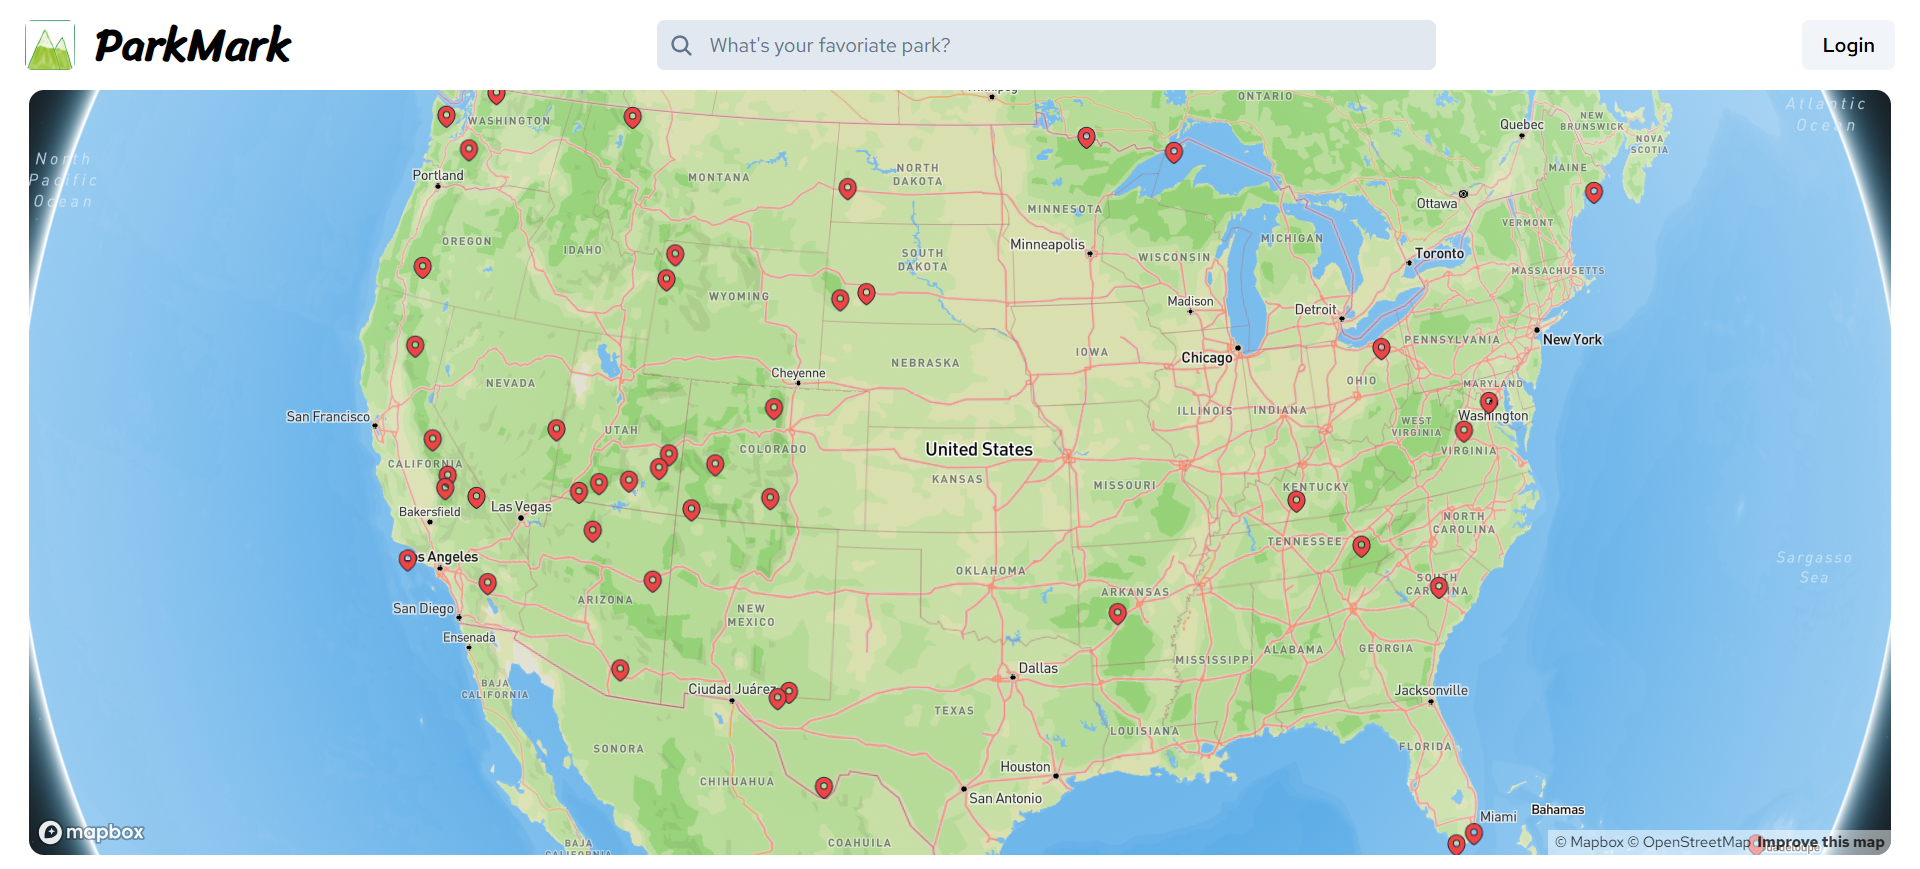
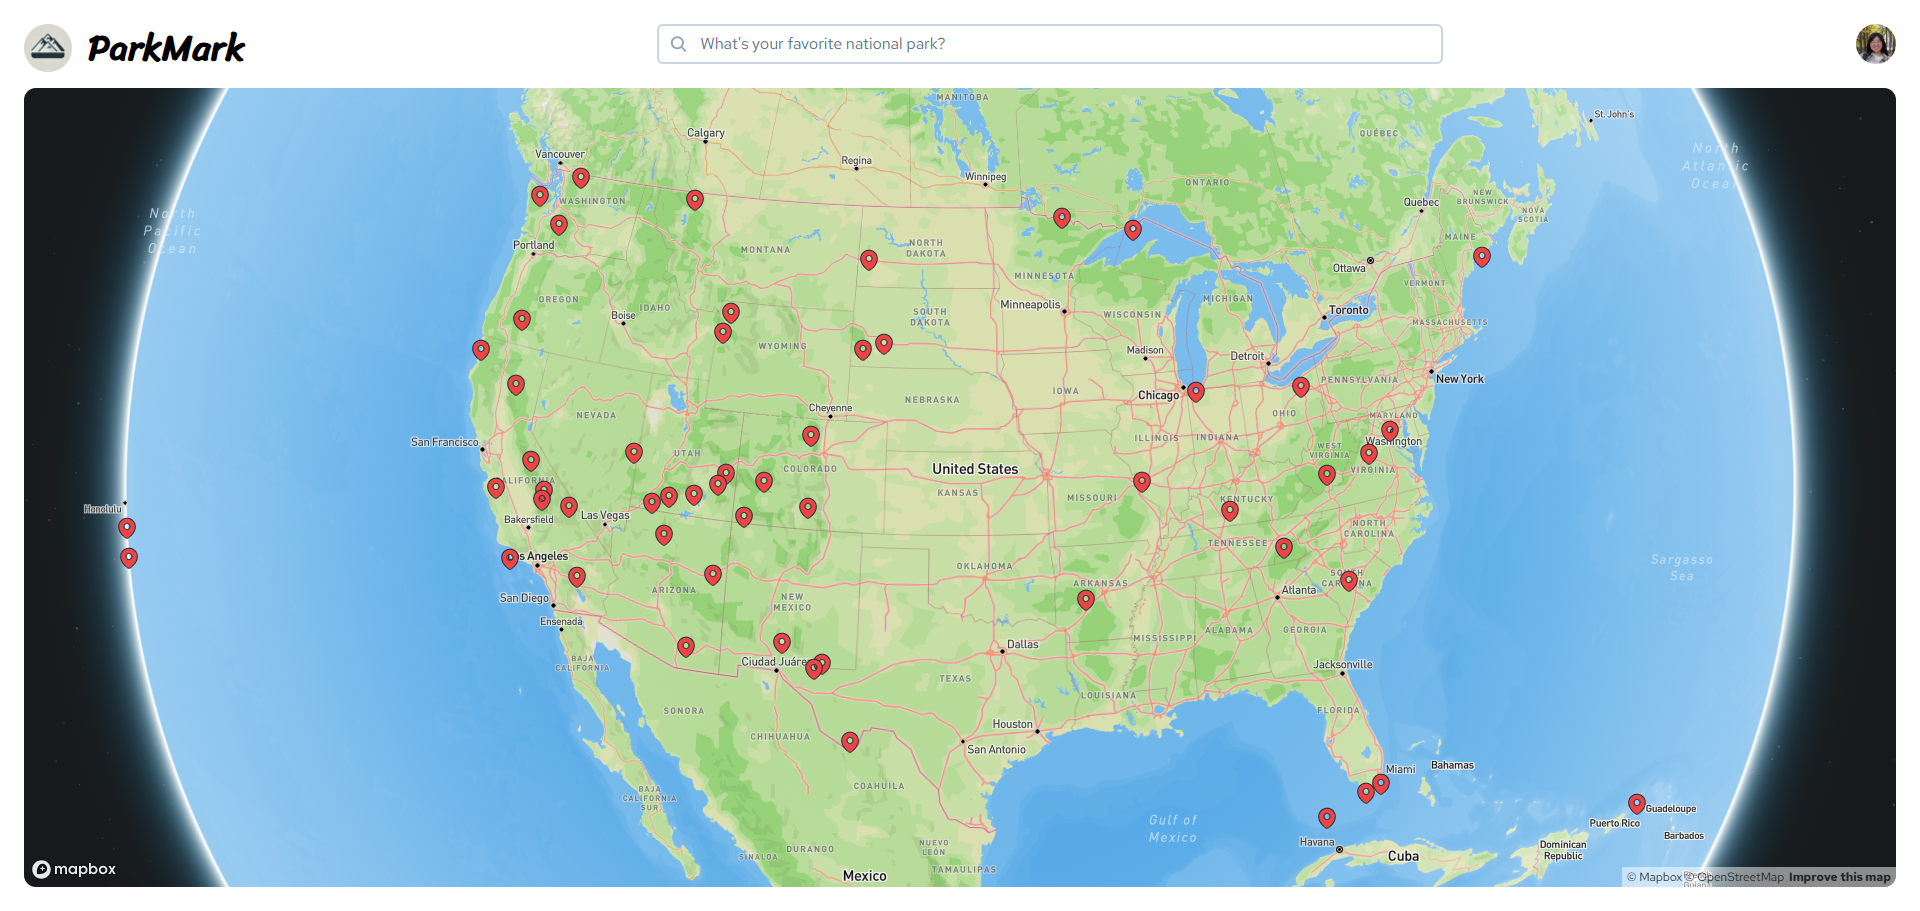
fixed search bar and added states to park list

diff --git a/client/src/components/NavBar/SearchBar.tsx b/client/src/components/NavBar/SearchBar.tsx
@@ -14,11 +14,8 @@ const SearchBar = () => {
     );
     const setSelectedParkAtom = useSetAtom(selectedParkAtom);
 
-    const baseClassName =
-        "relative flex flex-row items-center pl-2.5 w-[42%] max-h-10 gap-3 bg-white border-slate-300 border-2 ";
-    const [searchBarClassName, setSearchBarClassName] = useState<string>(
-        baseClassName + "rounded-md"
-    );
+    const [searchBarExtraClasses, setSearchBarExtraClasses] =
+        useState<string>("rounded-md");
 
     const handleSearchInputOnChange = () => {
         if (!searchRef.current) {
@@ -26,7 +23,7 @@ const SearchBar = () => {
         }
         if (searchRef.current.value.length === 0) {
             setSearchIsActive(false);
-            setSearchBarClassName(baseClassName + "rounded-md");
+            setSearchBarExtraClasses("rounded-md");
             return;
         }
 
@@ -37,15 +34,21 @@ const SearchBar = () => {
 
         setSuggestedParkList(suggestedParkList);
 
-        setSearchIsActive(true);
-
-        setSearchBarClassName(baseClassName + "rounded-t-md border-b-0");
+        
+        if (suggestedParkList.length > 0) {
+            setSearchBarExtraClasses("rounded-t-md border-b-0");
+            setSearchIsActive(true);
+        }
+        else {
+            setSearchBarExtraClasses("rounded-md");
+            setSearchIsActive(false);
+        }
     };
 
     const handleParkButtonClick = (park: NationalPark) => {
         setSelectedParkAtom(park);
         setSearchIsActive(false);
-        setSearchBarClassName(baseClassName + "rounded-md");
+        setSearchBarExtraClasses("rounded-md");
 
         if (!searchRef.current) {
             return;
@@ -55,7 +58,9 @@ const SearchBar = () => {
     };
 
     return (
-        <div className={searchBarClassName}>
+        <div
+            className={`relative flex flex-row items-center pl-2.5 w-[42%] max-h-10 gap-3 bg-white border-slate-300 border-2 ${searchBarExtraClasses}`}
+        >
             <IoSearch className="size-5 text-slate-400" />
             <input
                 ref={searchRef}
@@ -65,8 +70,8 @@ const SearchBar = () => {
             ></input>
             {searchIsActive && (
                 <div
-                    className="absolute left-0 top-9 flex flex-col w-full max-h-52 overflow-y-auto text-[17px]
-                            shadow-lg bg-white border-slate-300 border-2 border-t-0 rounded-b-md z-[1000]"
+                    className="absolute left-[-2px] top-9 flex flex-col w-[calc(100%+4px)] max-h-52 overflow-y-auto text-[17px]
+                            shadow-lg bg-white border-slate-300 border-2 border-t-0 rounded-b-md z-[1001]"
                 >
                     {suggestedParkList.map((park) => {
                         return (
@@ -74,10 +79,13 @@ const SearchBar = () => {
                                 onClick={() => {
                                     handleParkButtonClick(park);
                                 }}
-                                className="flex flex-row gap-3 py-2 pl-2.5 text-start text-slate-600 w-full rounded-md hover:bg-slate-100"
+                                className="flex flex-row gap-3 py-2 pl-2.5 text-start text-slate-600 w-full hover:bg-slate-100"
                             >
                                 <IoSearch className="size-5 text-slate-400" />
-                                {park.name}
+                                {park.name}{" "}
+                                <span className="text-slate-400 pl-2">
+                                    {park.park_info.states}
+                                </span>
                             </button>
                         );
                     })}

diff --git a/client/src/lib/APIs/thumbsUpListApi.ts b/client/src/lib/APIs/thumbsUpListApi.ts
@@ -6,26 +6,26 @@ export const postThumbsUpData = async (thumbsUpData: ThumbsUpData) => {
         const response = await fetch("http://localhost:5000/api/thumbsuplist", {
             method: "POST",
             headers: { "Content-Type": "application/json" },
-            body: JSON.stringify(thumbsUpData)
+            body: JSON.stringify(thumbsUpData),
         });
 
         if (!response.ok) {
             throw new Error(`[Backend] Network error: ${response.status}`);
         }
-    }
-    catch (error) {
+    } catch (error) {
         handleApiError(error);
     }
-}
-
-// export const deleteThumbsUpData = async (thumbsUpDataId)
+};
 
 export const fetchThumbsUpListByReviewId = async (reviewId: string) => {
     try {
-        const response = await fetch(`http://localhost:5000/api/thumbsuplist/review_id/${reviewId}`, {
-            method: "GET",
-            headers: { "Content-Type": "application/json" },
-        });
+        const response = await fetch(
+            `http://localhost:5000/api/thumbsuplist/review_id/${reviewId}`,
+            {
+                method: "GET",
+                headers: { "Content-Type": "application/json" },
+            }
+        );
 
         if (!response.ok) {
             throw new Error(`[Backend] Network error: ${response.status}`);
@@ -34,8 +34,28 @@ export const fetchThumbsUpListByReviewId = async (reviewId: string) => {
         const thumbsUpList: ThumbsUpData[] = await response.json();
 
         return thumbsUpList;
-    }
-    catch (error) {
+    } catch (error) {
         handleApiError(error);
     }
-}
+};
+
+export const deleteThumbsUpData = async (
+    userSubId: string,
+    reviewId: string
+) => {
+    try {
+        const response = await fetch(
+            `http://localhost:5000/api/thumbsuplist?user_sub_id=${userSubId}&review_id=${reviewId}`,
+            {
+                method: "DELETE",
+                headers: { "Content-Type": "application/json" },
+            }
+        );
+
+        if (!response.ok) {
+            throw new Error(`[Backend] Network error: ${response.status}`);
+        }
+    } catch (error) {
+        handleApiError(error);
+    }
+};

diff --git a/client/src/components/Ratings/Display/ThumbsUpButton.tsx b/client/src/components/Ratings/Display/ThumbsUpButton.tsx
@@ -1,4 +1,5 @@
 import {
+    deleteThumbsUpData,
     fetchThumbsUpListByReviewId,
     postThumbsUpData,
 } from "@lib/APIs/thumbsUpListApi";
@@ -21,7 +22,7 @@ const ThumbsUpButton = ({ reviewId }: ThumbsUpButtonProps) => {
 
     const logInUser: UserData | null = useAtomValue(logInUserAtom);
 
-    const handleThumbsUpButtonClick = () => {
+    const handleThumbsUpButtonClick = async () => {
         if (!logInUser) {
             alert("Please sign in to like a review.");
             return;
@@ -37,10 +38,12 @@ const ThumbsUpButton = ({ reviewId }: ThumbsUpButtonProps) => {
         if (newThumbsUpBool) {
             className += " fill-blue-400";
 
-            postThumbsUpData(thumbsUpData);
+            await postThumbsUpData(thumbsUpData);
         } else {
-            // delete here, but I need to delete by user id and review id..
+            await deleteThumbsUpData(logInUser.sub_id, reviewId);
         }
+
+        await calculateNumberOfThumbsUp();
         setThumbsUpBool(newThumbsUpBool);
         setThumbsUpIconClassName(className);
     };
@@ -75,11 +78,7 @@ const ThumbsUpButton = ({ reviewId }: ThumbsUpButtonProps) => {
     return (
         <button onClick={handleThumbsUpButtonClick} className={buttonClassName}>
             <LuThumbsUp className={thumbsUpIconClassName} />
-            {thumbsUpCount === 0 ? (
-                <></>
-            ) : (
-                <>{thumbsUpBool ? thumbsUpCount + 1 : thumbsUpCount}</>
-            )}
+            {thumbsUpCount === 0 ? <></> : <>{thumbsUpCount}</>}
         </button>
     );
 };

diff --git a/server/src/routers/thumbsUpListRouter.ts b/server/src/routers/thumbsUpListRouter.ts
@@ -67,7 +67,22 @@ thumbsUpListRouter.get(
     }
 );
 
-thumbsUpListRouter.delete("/id/:id", async(req: Request, res:Response) => {
+thumbsUpListRouter.delete("/", async (req: Request, res: Response) => {
+    try {
+        const { user_sub_id, review_id } = req.query;
+
+        const deleteQueryResult = await pool.query(
+            "DELETE FROM ThumbsUpList WHERE user_sub_id=$1 AND review_id=$2",
+            [user_sub_id, review_id]
+        );
+
+        res.json(deleteQueryResult);
+    } catch (error) {
+        handleError(error, res);
+    }
+});
+
+thumbsUpListRouter.delete("/id/:id", async (req: Request, res: Response) => {
     try {
         const { id } = req.params;
 
@@ -77,8 +92,7 @@ thumbsUpListRouter.delete("/id/:id", async(req: Request, res:Response) => {
         );
 
         res.json(deleteQueryResult);
-    }
-    catch (error) {
+    } catch (error) {
         handleError(error, res);
     }
 });

diff --git a/client/src/components/Ratings/Display/RatingCard.tsx b/client/src/components/Ratings/Display/RatingCard.tsx
@@ -1,5 +1,4 @@
 import { ReviewWithUserData } from "@lib/interfaces";
-import profileImg from "@assets/parkmark-logo.jpg";
 import DisplayReviewStars from "./DisplayReviewStars";
 import ThumbsUpButton from "./ThumbsUpButton";
 import { formatDate } from "@lib/dates";
@@ -20,10 +19,10 @@ const RatingCard: React.FC<RatingCardProps> = ({ review }) => {
                     <div className="font-medium">{review.user_name}</div>
                 </div>
                 <div className="self-center">
-                    <img
+                    {/* <img
                         src={profileImg}
                         className="size-32 object-cover rounded-lg"
-                    />
+                    /> */}
                 </div>
             </div>
             <div className="flex flex-col w-full">

diff --git a/client/src/lib/searchBar.ts b/client/src/lib/searchBar.ts
@@ -5,9 +5,19 @@ export const generateSuggestedPark = (
     parkList: NationalPark[]
 ) => {
     let suggestedParkList: NationalPark[] = [];
+    const prefixMatches = new Set();
 
     parkList.forEach((park) => {
-        if (park.name.toLowerCase().includes(input)) {
+        if (park.name.toLowerCase().startsWith(input)) {
+            suggestedParkList.push(park);
+            prefixMatches.add(park);
+        }
+    });
+    parkList.forEach((park) => {
+        if (
+            park.name.toLowerCase().includes(input) &&
+            !prefixMatches.has(park)
+        ) {
             suggestedParkList.push(park);
         }
     });

diff --git a/client/src/lib/Interfaces.ts b/client/src/lib/Interfaces.ts
@@ -20,6 +20,7 @@ export interface NationalPark {
             longitude: number;
             latitude: number;
         };
+        states?: string;
     };
 }
 

diff --git a/scripts/addStatesToNationalParks.py b/scripts/addStatesToNationalParks.py
@@ -1,0 +1,29 @@
+import csv
+import json
+
+def addStates():
+    state_dict = {}
+    with open("./raw_data/NationalParks.csv", 'r' , encoding="utf8") as csv_file:
+        csv_reader = csv.reader(csv_file)
+        next(csv_reader)
+        for row in csv_reader:
+            state_dict[row[0].lower() + " national park"] = row[1]
+
+    with open("./json_data/park_list_with_uuid.json", 'r') as json_file:
+        json_data = json.load(json_file)
+        count = 0
+        for park in json_data:
+            park_name = park["name"].lower()
+            if park_name in state_dict:
+                park["park_info"]["states"] = state_dict[park_name]
+                count += 1
+        print(count)
+        
+    with open("./json_data/park_list_with_uuid.json", 'w') as json_file:
+        json_file.write(json.dumps(json_data, indent=4))
+
+def main():
+    addStates()
+
+if __name__=="__main__":
+    main()

diff --git a/readme.md b/readme.md
@@ -13,14 +13,14 @@
 -   [x] Implement Login
 -   [x] Display user information upon login
 -   [x] Implement search functionality
-    -   [ ] Fix misaligned dropdown
+    -   [x] Fix misaligned dropdown
 -   [ ] Implement easier hovering over user information box popup
 
 #### Ratings Side Panel
 
 -   [x] Build basic reviews layout
 -   [x] Build create review page
--   [ ] Implement Thumbs up feature
+-   [x] Implement Thumbs up feature
 -   [ ] Display images correctly
 
 #### Mapbox
@@ -60,12 +60,10 @@
 
 -   [ ] Look into Google Cloud
 
-#### Postgres
+#### REST API
 
 -   [x] Do table join for returning list of reviews with user information
-
-<details>
-<summary>Past To-dos (Completed)</summary>
+-   [ ] Move server domain to .env
 
 #### Data
 
@@ -73,6 +71,10 @@
 -   [x] Fill in missing national park data in `filtered_national_parks_nps.json`
 -   [x] Make sure to check again if the number matches to 63!
 -   [x] Then run `generateParkUuid.py` again
+-   [ ] Add in missing states list
+
+<details>
+<summary>Past To-dos (Completed)</summary>
 
 #### UserData
 
